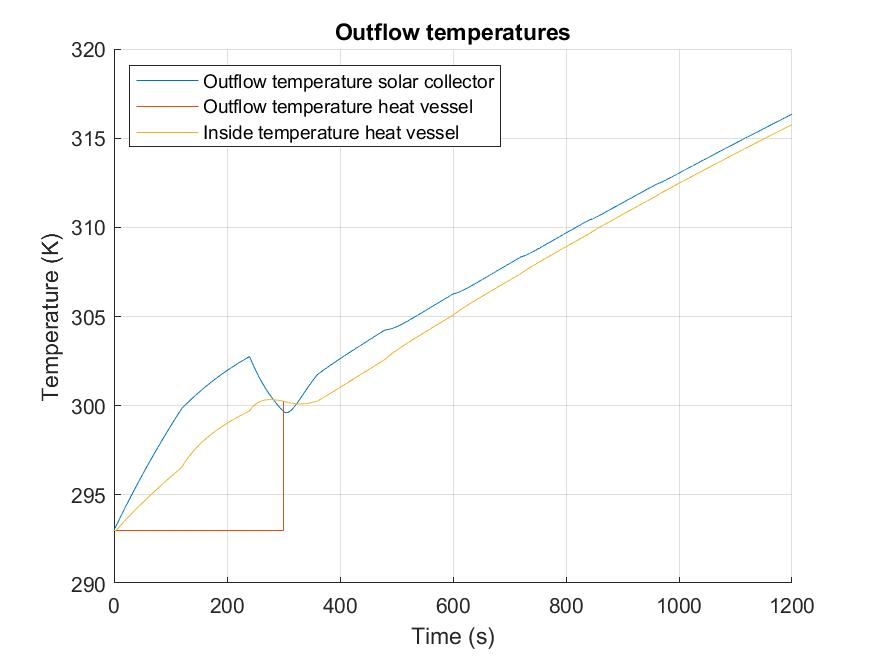
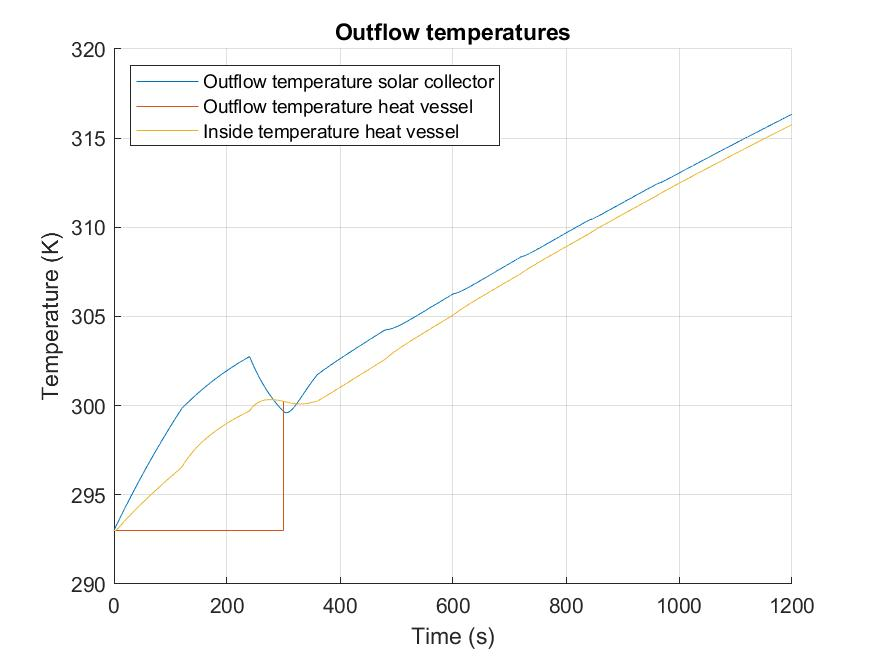
Incorporated conduction and convection from copper tube SC to air

diff --git a/Main_numerical_model.m b/Main_numerical_model.m
@@ -243,7 +243,8 @@ for t=0:t_step:t_end
     R_SC_total = R_CondOut + R_Cu_conv;                                   %The total of all the thermal resistances [K/W]
   
     %%%%Total heat flow solar collector%%%%
-    dQdt_SC_total = dQdt_RadCu - ((T_SC_out - T_air) / R_SC_total) - dtQt_RadOut;        %Total heat flow solar collector [W/m^2]
+    dQdT_SC_tube = ((T_SC_out - T_air) / R_SC_total);
+    dQdt_SC_total = dQdt_RadCu - dQdT_SC_tube - dtQt_RadOut;        %Total heat flow solar collector [W/m^2]
     
     %%%%Calculate internal temperature%%%%    
     delta_T = (dQdt_SC_total*t_step)/(m_SC_water*c_water + m_Cu*c_Cu);      %Resulting delta T of heat flow [K]
@@ -284,10 +285,9 @@ for t=0:t_step:t_end
     T_Al = T_Al + delta_T;                                                  %Temperature aluminium tape after delta T
 
     %Air temperature:
-    dQdt_CondEnv = -(k_wood * A_frame * (T_air - T_sur))/dx;                %Heat flow to the environment through the wood by conduction
+    dQdt_CondEnv = -(k_wood * A_frame * (T_air - T_sur))/dx;               %Heat flow to the environment through the wood by conduction
     dQdt_CondGlass = -(k_glass*A_glass*(T_air - T_sur))/d_glass;           %Heat flow to the environment through the glass by conduction
-    dQdt_CondOut = 0;                                                     %-(T_SC_out - T_air)/R_CondOut; gives a NaN value, goes to infinity 
-    dQdt_air_total = dQdt_Al_conv + dQdt_CondEnv + dQdt_CondGlass + dQdt_CondOut; 
+    dQdt_air_total = dQdt_Al_conv + dQdt_CondEnv + dQdt_CondGlass + dQdT_SC_tube; 
      
     delta_T = (dQdt_air_total*t_step)/(m_air*c_air);                        %Resulting delta T of heat flow [K]
     T_air = T_air + delta_T;                                                %Resulting air temperature [K]
